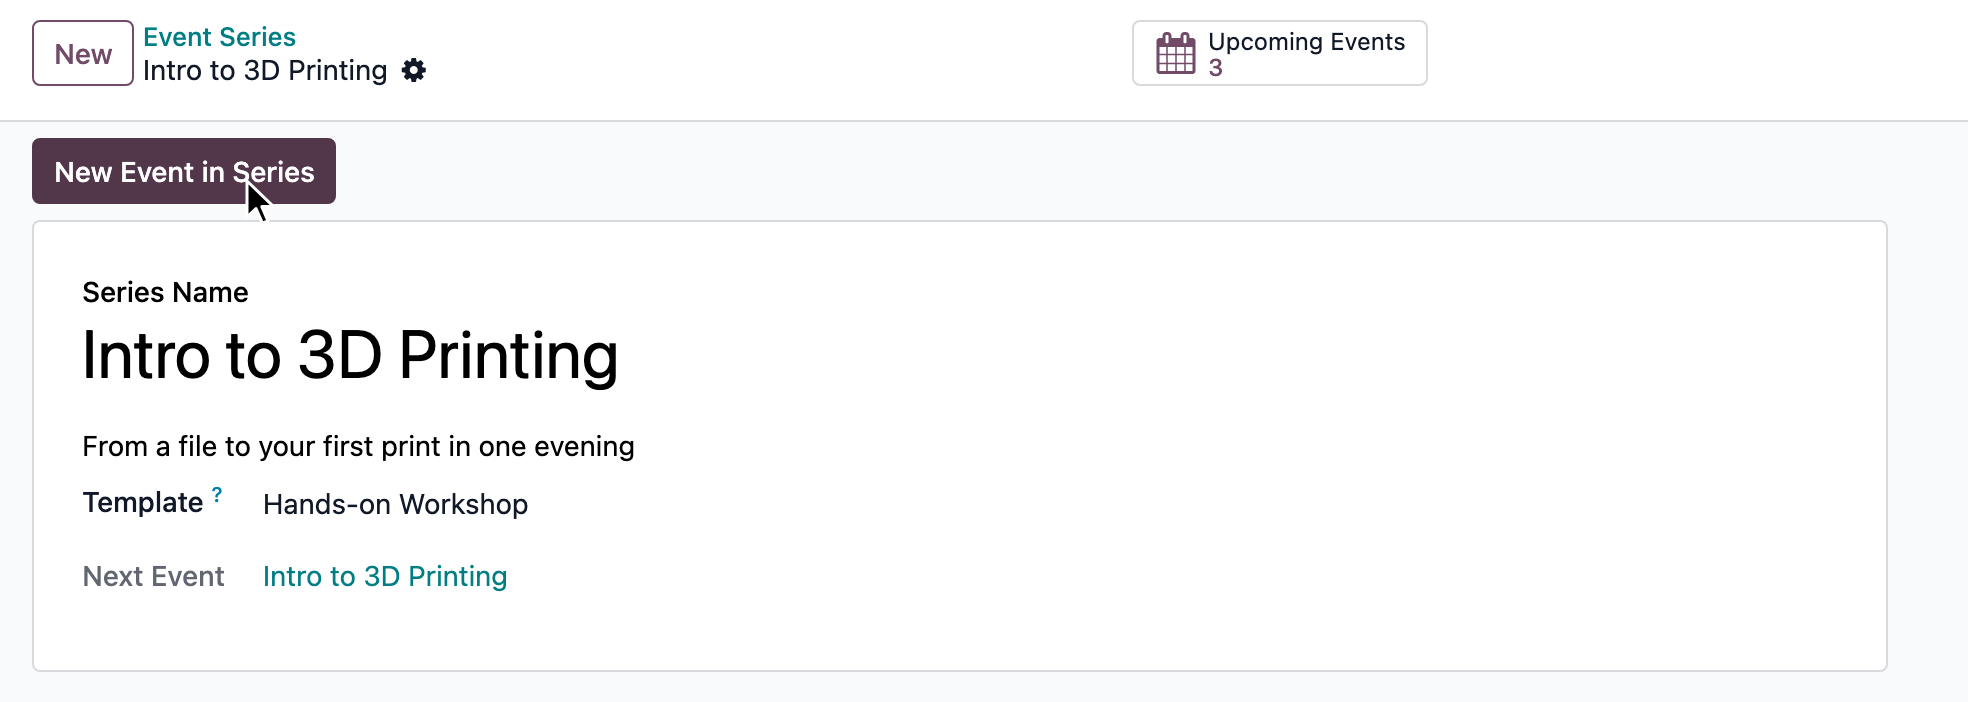
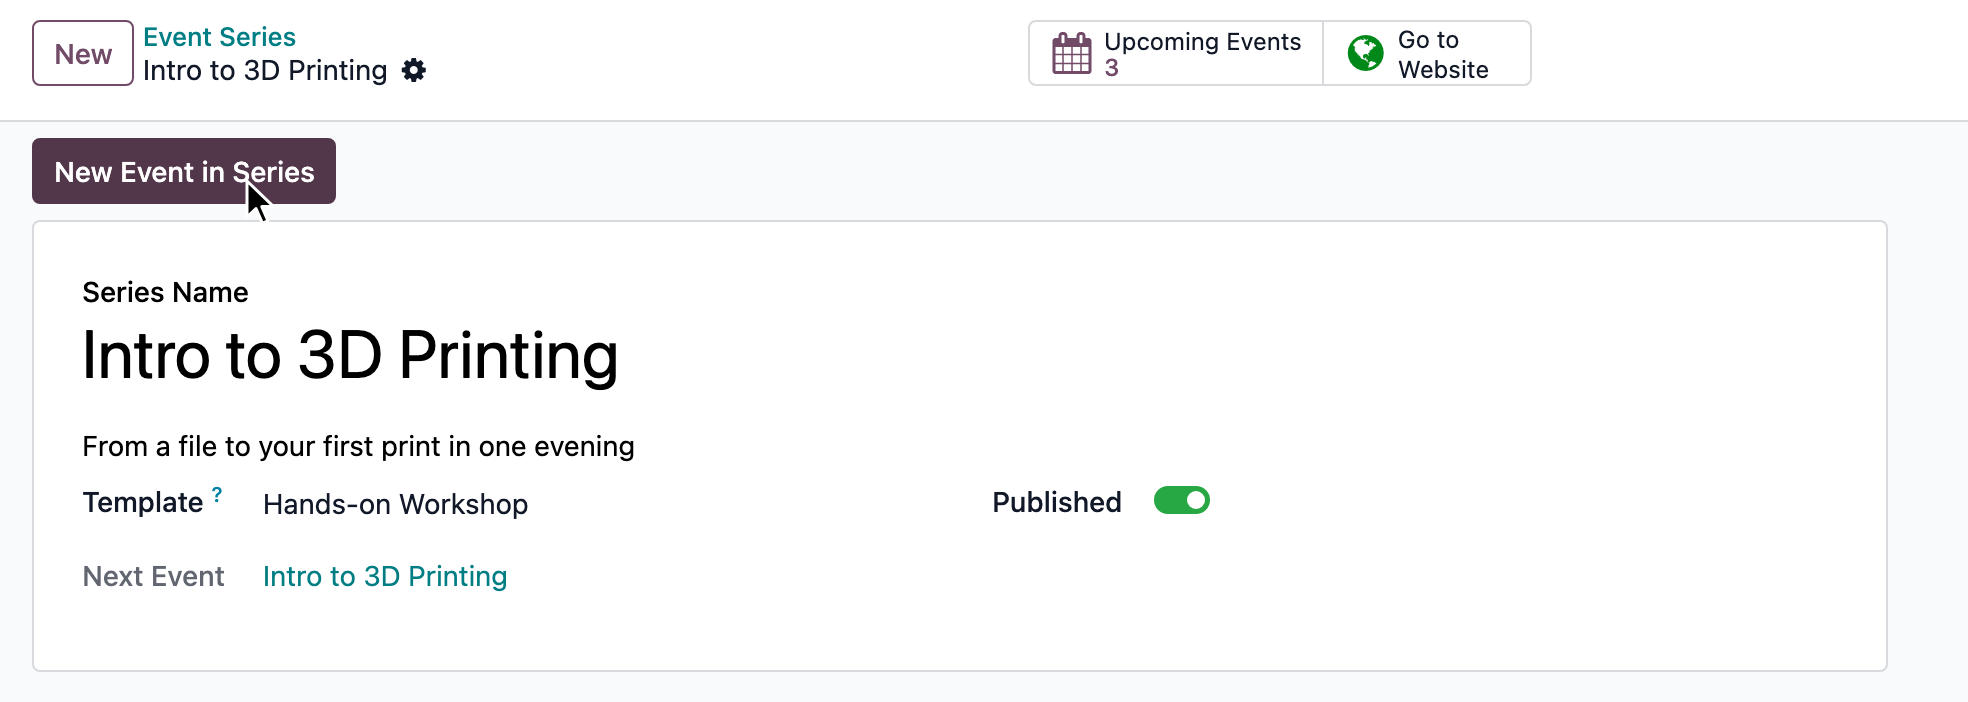
Point Event Series back to its website companion, and seed the series' pages
- vmk_event_series' store page, manual, and README name Event Series (Website) again, with a link to its 19.0 listing, now that the companion is ported.
- The demo seed publishes the two series with stock covers, and the Event Series recipe copies its form screenshot to the companion as series_form.png; both screenshots and the cover show the series form with its website settings.
- DEVELOPING.md lists vmk_website_event_series, records that it has no scheduled publishing here, and leaves vmk_colorlist_colors as the one module still to come.

Changed region(s): [[0.5269, 0.0299, 0.7749, 0.1197], [0.4959, 0.688, 0.6199, 0.7479]]

diff --git a/vmk_event_series/static/description/index.html b/vmk_event_series/static/description/index.html
@@ -15,6 +15,11 @@
                     ordinary event, with its own tickets, seats, and registrations, and the series simply groups them
                     together.
                 </p>
+                <p style="font-family:-apple-system, system-ui, 'Segoe UI', Roboto, 'Helvetica Neue', Ubuntu, 'Noto Sans', Arial, sans-serif; font-size:14px; font-weight:400; line-height:21px; color:light-dark(#111827, #E4E4E4); margin:0 0 16px;">
+                    <b>Publishing events on your website?</b> Use
+                    <a href="https://apps.odoo.com/apps/modules/19.0/vmk_website_event_series" target="_blank" style="color:light-dark(#502582, #B69BE6);"><b>Event Series (Website)</b></a> instead: it includes this module, and also
+                    gives each event series a page on your website, listing all of the upcoming dates.
+                </p>
             </div>
         </div>
     </div>
@@ -64,7 +69,7 @@
                 </p>
                 <p style="font-family:-apple-system, system-ui, 'Segoe UI', Roboto, 'Helvetica Neue', Ubuntu, 'Noto Sans', Arial, sans-serif; font-size:14px; font-weight:400; line-height:21px; color:light-dark(#111827, #E4E4E4); margin:0 0 16px;">
                     This module only requires <b>Events Organization</b>, the backend part of the
-                    <b>Events</b> app.
+                    <b>Events</b> app, and by itself changes nothing on a website.
                 </p>
             </div>
         </div>

diff --git a/tools/shots/demo/seed.py b/tools/shots/demo/seed.py
@@ -23,6 +23,7 @@ right before capturing vmk_event_registration_deadline's public page:
     (cat tools/shots/demo/seed.py; echo "open_studio_evening(env)") | SERIES=18.0 DB=shots odev shell
 """
 import base64
+import json
 from datetime import datetime, timedelta, timezone
 from zoneinfo import ZoneInfo
 
@@ -302,10 +303,9 @@ assert rosa.email == "rosa.vidal@example.com" and lead.partner_id == rosa
 
 
 # ---------------------------------------------------------------------------
-# Event Series: two series, each with dates on the coming Tuesdays or Saturdays,
-# counted from the day this runs so that they stay upcoming, and one past date.
-# A template for the first. (Odoo 19 has no website page for a series, so there
-# is no cover or publishing to seed.)
+# Event Series: two published series, each with dates on the coming Tuesdays or
+# Saturdays, counted from the day this runs so that they stay upcoming, and one
+# past date. A template for the first.
 # ---------------------------------------------------------------------------
 if "vmk.event.series" in env:
     Series = env["vmk.event.series"]
@@ -335,6 +335,12 @@ if "vmk.event.series" in env:
     studio = find_or_create_partner("Valencia Makers Studio", is_company=True)
     studio.write({"city": "Valencia", "country_id": spain.id, "parent_id": company.partner_id.id})
 
+    def cover(image):
+        """Cover properties with one of website_event's stock images, on the dark preset (o_cc5) so
+        a series' title reads in white over it, at the mixin's default half-screen height."""
+        return json.dumps({"background_color_class": "o_cc5", "background-image": f"url('/website_event/static/src/img/{image}')",
+                           "opacity": "0.4", "resize_class": "o_half_screen_height"})
+
     def series_dates(series, weekday, hour, hours, weeks, past=None):
         """Dates on `weekday` (0 is Monday), `weeks` weeks apart, the first in the coming week;
         and with `past`, one that ended `past` weeks ago. Recreated on every run, so they stay
@@ -355,6 +361,7 @@ if "vmk.event.series" in env:
                     "date_end": dt(day.year, day.month, day.day, hour + hours),
                     "address_id": studio.id,
                     "website_published": True,
+                    "cover_properties": series.cover_properties,
                 }
             )
 
@@ -362,11 +369,15 @@ if "vmk.event.series" in env:
         "Intro to 3D Printing",
         subtitle="From a file to your first print in one evening",
         event_type_id=workshop.id,
+        website_published=True,
+        cover_properties=cover("event_training_0.jpg"),
     )
     series_dates(intro, 1, 18, 3, [0, 2, 4], past=2)
     laser = find_or_create_series(
         "Laser Cutting Basics",
         subtitle="Design, cut, and engrave a project of your own",
+        website_published=True,
+        cover_properties=cover("training.jpg"),
     )
     series_dates(laser, 5, 10, 4, [1, 5])
 

diff --git a/tools/shots/recipes/vmk_event_series.py b/tools/shots/recipes/vmk_event_series.py
@@ -4,9 +4,10 @@
 # ///
 """Event Series: a series' form, and the events list grouped by series.
 
-Writes main_screenshot.png and events_by_series.png.
+Writes main_screenshot.png and events_by_series.png, and copies main_screenshot.png to Event Series
+(Website) as series_form.png, which that module's cover shows.
 """
-import asyncio, sys
+import asyncio, shutil, sys
 from pathlib import Path
 from playwright.async_api import async_playwright
 sys.path.insert(0, str(Path(__file__).resolve().parent.parent))
@@ -64,4 +65,7 @@ async def main(out):
 if __name__ == "__main__":
     out = shots.out_dir("vmk_event_series", sys.argv)
     asyncio.run(main(out))
+    if "--out" not in sys.argv:
+        shutil.copyfile(out / "main_screenshot.png",
+                        out.parent.parent.parent / "vmk_website_event_series/static/description/series_form.png")
     print("wrote", out)

diff --git a/DEVELOPING.md b/DEVELOPING.md
@@ -24,8 +24,10 @@ was verified against the series of the branch you are reading.
 - **`vmk_website_event_slot_multiday`** — both days of a multi-day slot in the website's
   registration modal; `auto_install`.
 - **`vmk_event_series`** — group the dates of an event run again and again into one series; a plain
-  link on each event. Its website companion, `vmk_website_event_series`, and `vmk_colorlist_colors`
-  are on 20.0 only (see _Not ported_ below).
+  link on each event.
+- **`vmk_website_event_series`** — a page on the website for each event series, an index of them, a
+  link from each event's page, and a Series filter on the `/event` listing; `auto_install`. Ported
+  from 20.0 without scheduled publishing (see _Not ported_ below).
 - **`vmk_mass_mailing_double_optin`** — confirmation by email for new mailing list subscriptions,
   and a log of every consent change.
 - **`vmk_partner_email_multiple`** — several email addresses per contact, matched by Odoo's own
@@ -36,13 +38,17 @@ was verified against the series of the branch you are reading.
 Read the existing modules' `README.md` files before writing another; between them they document most
 of the traps below in context.
 
-**Not ported from 20.0, on purpose** (26 November 2026): `vmk_website_event_series` schedules a
-series' publishing with `publish_on` and `action_unschedule`, which Odoo 20 added to the website
-mixins together with a cron (`website/models/mixins.py`); 19's mixins have none, so a port would
-mean reimplementing that feature. `vmk_colorlist_colors` sets the lists `$o-colors-border`,
-`$o-colors-bg-subtle`, and `$o-colors-text-emphasis`, which only 20's SCSS reads; 19 derives a tag's
-and a badge's shades from `$o-colors` alone, with `adjust-color` (`core/tags_list/tags_list.scss`,
-`core/badge/badge.scss`), so the module's shade logic would have nothing to feed.
+**Ported without a feature** (26 November 2026): `vmk_website_event_series` has no scheduled
+publishing here. On 20 a series has `publish_on` and `action_unschedule`, which Odoo 20 added to the
+website mixins together with a cron (`website/models/mixins.py`); 19's mixins have none and an event
+cannot be scheduled either, so a series has the Published toggle only, as an event does, and we do
+not reimplement what core lacks (decided 26 November 2026).
+
+**Not ported from 20.0, on purpose** (26 November 2026): `vmk_colorlist_colors` sets the lists
+`$o-colors-border`, `$o-colors-bg-subtle`, and `$o-colors-text-emphasis`, which only 20's SCSS
+reads; 19 derives a tag's and a badge's shades from `$o-colors` alone, with `adjust-color`
+(`core/tags_list/tags_list.scss`, `core/badge/badge.scss`), so the module's shade logic would have
+nothing to feed. Its port to this branch is still to come.
 
 ## Branches — one per Odoo series
 

diff --git a/tools/shots/README.md b/tools/shots/README.md
@@ -68,10 +68,11 @@ ordinary event rather than a multi-slot one. What it makes:
   purple (`demo/rosa_vidal.png`), and a lead that arrived by email from one of them. The lead goes
   through the mail gateway, so its contact is found the way real mail finds it; `seed.py` recreates
   the lead on every run, so it stays matched to Rosa even after an unrelated re-seed.
-- for Event Series, two series, **Intro to 3D Printing** (on a **Hands-on Workshop** template) and
-  **Laser Cutting Basics**, with dates at a **Valencia Makers Studio** venue in Valencia. The dates
-  are counted from the day the seed runs, on the coming Tuesdays and Saturdays, plus one past date,
-  and are recreated on every run, so they stay upcoming whenever the screenshots are retaken.
+- for Event Series and its website companion, two published series, **Intro to 3D Printing** (on a
+  **Hands-on Workshop** template) and **Laser Cutting Basics**, each with a stock cover from
+  `website_event` and dates at a **Valencia Makers Studio** venue in Valencia. The dates are counted
+  from the day the seed runs, on the coming Tuesdays and Saturdays, plus one past date, and are
+  recreated on every run, so they stay upcoming whenever the screenshots are retaken.
 - for Double Opt-In, two mailing lists, **Newsletter** and **Workshop Announcements**, and five
   subscribers: four who signed up on the website as the public user, as core's newsletter block does
   (Rosa and Ana confirmed, Ana later left one list, **Jordi Puig** and Lucía still awaiting

diff --git a/vmk_event_series/README.md b/vmk_event_series/README.md
@@ -5,12 +5,15 @@ Each date stays an ordinary event, with its own tickets, seats, and registration
 what they share, and lists them.
 
 **How to use it** is in the user documentation, [`doc/index.rst`](doc/index.rst), which the Odoo
-Apps Store also shows on the module's page, together with the changelog.
+Apps Store also shows on the module's page, together with the changelog. A series' description
+belongs to its page on the website, and comes with the website module.
 
-It depends only on `event` (_Events Organization_). **On Odoo 19 a series has no page on the
-website:** its website companion, `vmk_website_event_series`, is not ported to this series, because
-it relies on scheduled publishing (`publish_on`), which Odoo's website mixins only gained in 20.
-LGPL-3, © 2026 Valencia Makers, SL.
+It depends only on `event` (_Events Organization_). The _Events_ app is `website_event`, which
+brings the website with it, so most databases have both; there the companion module
+[`vmk_website_event_series`](../vmk_website_event_series) installs itself from a clone of this repo
+and gives each series a page of its own. From the Apps Store, website users download the companion
+instead: it depends on this module, so the store includes both, while this module's own download
+does not include the companion. LGPL-3, © 2026 Valencia Makers, SL.
 
 ## For developers
 

diff --git a/vmk_event_series/doc/index.rst b/vmk_event_series/doc/index.rst
@@ -9,6 +9,11 @@ tickets, seats, and registrations, and the series simply groups them together.
 Install **Event Series** from the Apps menu. It only requires **Events Organization**, the backend
 part of the **Events** app.
 
+If you publish events on your website, install `Event Series (Website)
+<https://apps.odoo.com/apps/modules/19.0/vmk_website_event_series>`_ instead: it includes this
+module, and also gives each event series a page on your website, listing all of the upcoming dates.
+If you start publishing events online later, install Event Series (Website) then.
+
 **Using it**
 
 #. Open **Events › Series** and click **New**.
@@ -38,7 +43,8 @@ the registration desk can read them.
   price, is made on each one, as in standard Odoo.
 - **A series with events can't be deleted**, only archived, so no event is left pointing at nothing.
   A series without events can be deleted.
-- **A series has no page on the website.** It exists in the backend only.
+- **On its own, this module doesn't change the website.** **Event Series (Website)** gives each
+  series a page.
 
 **Languages**
 
